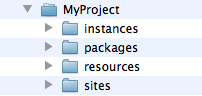
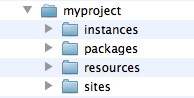
small changes
git-svn-id: http://svn.genropy.org/genro/trunk@3972 c8d40aac-abfe-4c07-9ed8-ca0f8f1311d8

Changed region(s): [[0.2165, 0.2188, 0.7423, 0.9688], [0.0928, 0.0312, 0.6495, 0.1875]]

diff --git a/docs/genro/database/introduction.rst b/docs/genro/database/introduction.rst
@@ -28,7 +28,7 @@ Create a Genro project
 
 		gnrmkproject ProjectName
 	
-	This will create a folder with the project name you have chosen, and 4 subfolders called ``Instances``, ``Packages``, ``Resources``, ``Sites``, as you can see in this image (in this case the name of the project is "MyProject"):
+	This will create a folder with the project name you have chosen, and 4 subfolders called ``Instances``, ``Packages``, ``Resources``, ``Sites``, as you can see in this image (in this case the name of the project is "myproject"):
 
 	.. image:: myproject.png
 
@@ -46,7 +46,7 @@ Create a Genro project
 
 	.. image:: myproject2.png
 
-	In the next section we'll see all the details of a project's subfolders.
+	In the next section we'll see all the details of the project's subfolders.
 
 	.. _genro-project-structure:
 

diff --git a/docs/genro/common/datapath.rst b/docs/genro/common/datapath.rst
@@ -39,7 +39,7 @@ Datapath description
 Datapath validity
 =================
 
-	You can give "datapath" attribute to each object, but it is useful give this attribute only to the objects that contain other objects (so give this attribute to container objects).
+	You can give "datapath" attribute to each object, but it is useful give this attribute only to the objects that contain other objects (so give this attribute to container objects, that are :ref:`genro-accordioncontainer`, :ref:`genro-bordercontainer`, :ref:`genro-stackcontainer`, :ref:`genro-tabcontainer`).
 
 	.. _data-examples:
 

diff --git a/docs/genro/ui/index.rst b/docs/genro/ui/index.rst
@@ -5,7 +5,7 @@ User interface
 Building Server-side pages
 **************************
 
-For building server-side pages, plsease see :mod:`gnr.core.gnrhtml`.
+For building server-side pages, please see :mod:`gnr.core.gnrhtml`.
 
 Building Client-side pages
 **************************

diff --git a/docs/genro/components/standardtable.rst b/docs/genro/components/standardtable.rst
@@ -4,6 +4,9 @@
  Standard table
 ================
 
+	??? explain that standard table is an "active" component (active = get the "def main" from Genro...)
+
+
 	<ZOOM>	
 		??? parlare dello zoom!
 		

diff --git a/docs/genro/getting_started.rst b/docs/genro/getting_started.rst
@@ -8,10 +8,9 @@
 	:maxdepth: 3
 
 	installation
-	datastore
-	widgets/index
+	webpage_elements/index
+	datastore/index
 	common/index
 	bag/index
-	datacontroller/index
 	ui/index
 	validations/index
